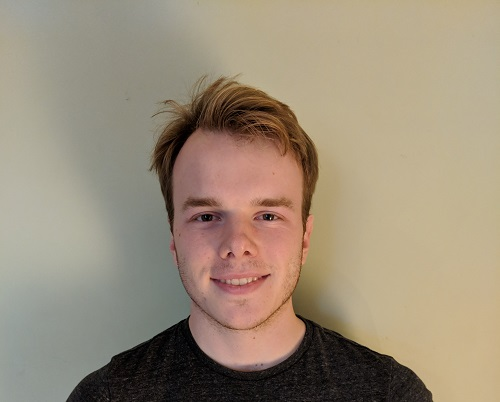
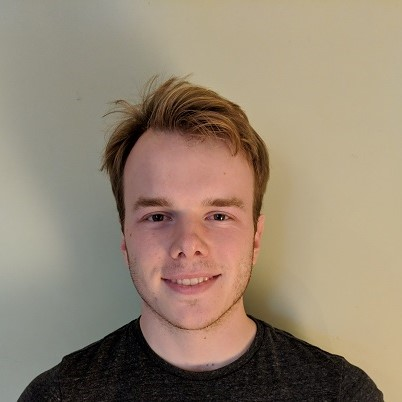
sizing edits

diff --git a/_layouts/default.html b/_layouts/default.html
@@ -24,7 +24,7 @@
   <body>
 
     <header class="page-header" role="banner">
-      <img class="header-img" src="assets/img/test_profile.jpg" height="50" width="50">
+      <img class="header-img" src="assets/img/test_profile.jpg" height="150" width="150">
       <h1 class="project-name">{{ site.title | default: site.github.repository_name }}</h1>
       <h2 class="project-tagline">{{ site.description | default: site.github.project_tagline }}</h2>
       <!-- The pages -->
